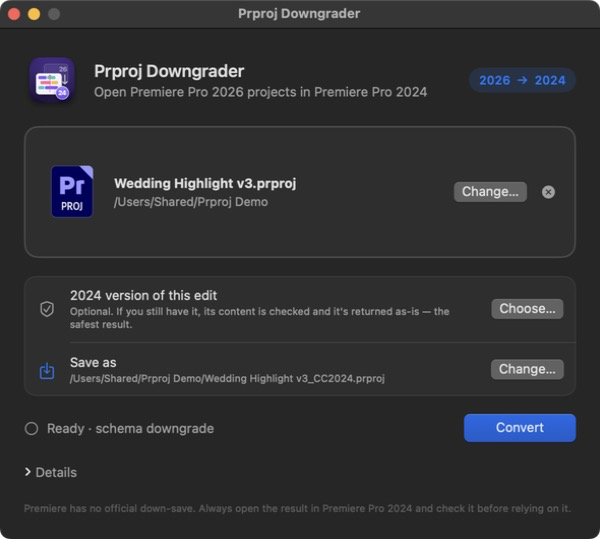
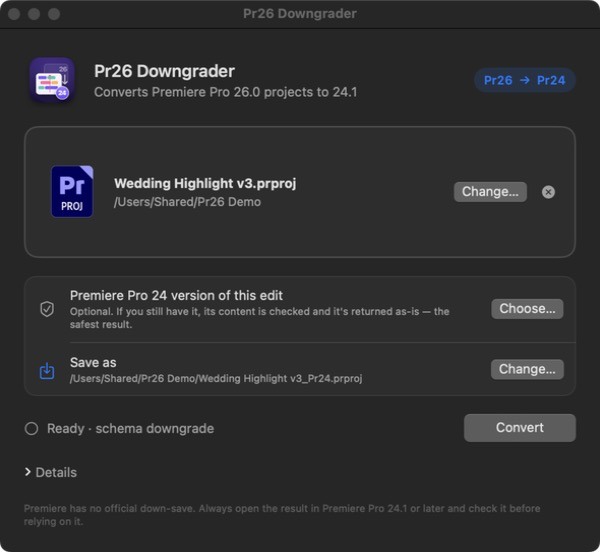
Rename to Pr26 Downgrader; add DMG release and Intel notes
- App, bundle ID, window, release files and repo links now use
  "Pr26 Downgrader"; output files default to <name>_Pr24.prproj.
- README states the exact versions: Premiere Pro 26.0.x (project version 45)
  to 24.1.x (project version 42), opening in 24.1 and later.
- Release builds a drag-to-Applications DMG alongside the ZIP, plus
  SHA256SUMS.txt.
- README: Intel Mac notes and per-macOS-version first-launch steps
  (Open Anyway on macOS 15+).

diff --git a/app/Pr26Downgrader.swift b/app/Pr26Downgrader.swift
@@ -3,19 +3,19 @@ import AppKit
 import UniformTypeIdentifiers
 
 @main
-struct PrprojDowngraderApp: App {
+struct Pr26DowngraderApp: App {
     @NSApplicationDelegateAdaptor(AppDelegate.self) private var delegate
     @StateObject private var model = ConverterModel.shared
 
     var body: some Scene {
-        Window("Prproj Downgrader", id: "main") {
+        Window("Pr26 Downgrader", id: "main") {
             ContentView()
                 .environmentObject(model)
         }
         .windowResizability(.contentSize)
         .commands {
             CommandGroup(replacing: .newItem) {
-                Button("Open 2026 Project…") { model.chooseInput() }
+                Button("Open Pr26 Project…") { model.chooseInput() }
                     .keyboardShortcut("o")
             }
         }
@@ -122,7 +122,7 @@ final class ConverterModel: ObservableObject {
 
     func setReference(_ url: URL?) {
         if let url, url == inputURL {
-            notice = "The 2024 version must be a different file from the 2026 project."
+            notice = "The Pr24 version must be a different file from the Pr26 project."
             return
         }
         referenceURL = url
@@ -138,7 +138,7 @@ final class ConverterModel: ObservableObject {
 
     static func defaultOutput(for input: URL) -> URL {
         let base = input.deletingPathExtension().lastPathComponent
-        return input.deletingLastPathComponent().appendingPathComponent(base + "_CC2024.prproj")
+        return input.deletingLastPathComponent().appendingPathComponent(base + "_Pr24.prproj")
     }
 
     private static var projectType: UTType {
@@ -147,7 +147,7 @@ final class ConverterModel: ObservableObject {
 
     func chooseInput() {
         let panel = NSOpenPanel()
-        panel.message = "Choose a Premiere Pro 2026 project"
+        panel.message = "Choose a Premiere Pro 26 project"
         panel.allowedContentTypes = [Self.projectType]
         panel.begin { response in
             guard response == .OK, let url = panel.url else { return }
@@ -157,7 +157,7 @@ final class ConverterModel: ObservableObject {
 
     func chooseReference() {
         let panel = NSOpenPanel()
-        panel.message = "Choose the Premiere Pro 2024 version of the same edit"
+        panel.message = "Choose the Premiere Pro 24 version of the same edit"
         panel.allowedContentTypes = [Self.projectType]
         if let dir = inputURL?.deletingLastPathComponent() { panel.directoryURL = dir }
         panel.begin { response in
@@ -169,7 +169,7 @@ final class ConverterModel: ObservableObject {
     func chooseOutput() {
         let panel = NSSavePanel()
         panel.allowedContentTypes = [Self.projectType]
-        panel.nameFieldStringValue = outputURL?.lastPathComponent ?? "Project_CC2024.prproj"
+        panel.nameFieldStringValue = outputURL?.lastPathComponent ?? "Project_Pr24.prproj"
         panel.directoryURL = outputURL?.deletingLastPathComponent()
         panel.begin { response in
             guard response == .OK, let url = panel.url else { return }
@@ -276,7 +276,7 @@ final class ConverterModel: ObservableObject {
     private static func failureMessage(status: Int32, log: String) -> String {
         switch status {
         case 3:
-            return "The 2024 project doesn't match this edit, so it wasn't used. Remove it to run a schema downgrade instead."
+            return "The Pr24 project doesn't match this edit, so it wasn't used. Remove it to run a schema downgrade instead."
         case 4:
             return "The converted file didn't pass verification and shouldn't be used."
         default:
@@ -289,11 +289,11 @@ final class ConverterModel: ObservableObject {
     private static func summarize(_ report: URL) -> Summary {
         guard let data = try? Data(contentsOf: report),
               let json = try? JSONSerialization.jsonObject(with: data) as? [String: Any] else {
-            return Summary(title: "Converted", detail: "Open it in Premiere Pro 2024 and check it before use.", warnings: [])
+            return Summary(title: "Converted", detail: "Open it in Premiere Pro 24.1 or later and check it before use.", warnings: [])
         }
         if json["mode"] as? String == "reference-transplant" {
-            return Summary(title: "Matched your 2024 project",
-                           detail: "The edit is identical, so the 2024 file was returned unchanged.",
+            return Summary(title: "Matched your Premiere Pro 24 project",
+                           detail: "The edit is identical, so the 24.1 file was returned unchanged.",
                            warnings: [])
         }
         let changes = json["changes"] as? [String: Any] ?? [:]
@@ -307,9 +307,9 @@ final class ConverterModel: ObservableObject {
         let detail = [
             "\(classes) versions reverted",
             "\(added) fields restored",
-            "\(removed) 2026-only fields removed",
+            "\(removed) Pr26-only fields removed",
         ].joined(separator: " · ")
-        return Summary(title: "Saved as a Premiere Pro 2024 project", detail: detail, warnings: warnings)
+        return Summary(title: "Saved as a Premiere Pro 24.1 project", detail: detail, warnings: warnings)
     }
 }
 
@@ -343,7 +343,7 @@ struct ContentView: View {
 
             DetailsSection()
 
-            Text("Premiere has no official down-save. Always open the result in Premiere Pro 2024 and check it before relying on it.")
+            Text("Premiere has no official down-save. Always open the result in Premiere Pro 24.1 or later and check it before relying on it.")
                 .font(.caption)
                 .foregroundStyle(.tertiary)
                 .fixedSize(horizontal: false, vertical: true)
@@ -364,24 +364,24 @@ struct HeaderView: View {
                 .resizable()
                 .frame(width: 56, height: 56)
             VStack(alignment: .leading, spacing: 2) {
-                Text("Prproj Downgrader")
+                Text("Pr26 Downgrader")
                     .font(.title2.weight(.semibold))
-                Text("Open Premiere Pro 2026 projects in Premiere Pro 2024")
+                Text("Converts Premiere Pro 26.0 projects to 24.1")
                     .foregroundStyle(.secondary)
             }
             Spacer()
             HStack(spacing: 6) {
-                Text("2026")
+                Text("Pr26")
                 Image(systemName: "arrow.right")
                     .font(.caption2.weight(.bold))
-                Text("2024")
+                Text("Pr24")
             }
             .font(.callout.weight(.semibold).monospacedDigit())
             .padding(.horizontal, 10)
             .padding(.vertical, 5)
             .background(Capsule().fill(Color.accentColor.opacity(0.15)))
             .foregroundStyle(Color.accentColor)
-            .help("Project schema v45 → v42")
+            .help("Premiere Pro 26.0 (project version 45) → 24.1 (project version 42)")
         }
     }
 }
@@ -419,7 +419,7 @@ struct DropZone: View {
             Image(systemName: "film.stack")
                 .font(.system(size: 30, weight: .light))
                 .foregroundStyle(isTargeted ? Color.accentColor : .secondary)
-            Text("Drop a Premiere Pro 2026 project here")
+            Text("Drop a Premiere Pro 26 project here")
                 .font(.headline)
             Text("or click to choose a .prproj file")
                 .font(.callout)
@@ -466,7 +466,7 @@ struct OptionsCard: View {
         VStack(spacing: 0) {
             OptionRow(
                 symbol: "checkmark.shield",
-                title: "2024 version of this edit",
+                title: "Premiere Pro 24 version of this edit",
                 subtitle: model.referenceURL.map { $0.lastPathComponent }
                     ?? "Optional. If you still have it, its content is checked and it's returned as-is — the safest result.",
                 isSet: model.referenceURL != nil

diff --git a/app/prproj_downgrade.py b/app/prproj_downgrade.py
@@ -644,7 +644,7 @@ def project_version(tree: ET.ElementTree) -> int | None:
 # ---------------------------------------------------------------------------
 
 def main(argv=None) -> int:
-    ap = argparse.ArgumentParser(description="Downgrade a Premiere Pro 2026 project to the 2024 schema.")
+    ap = argparse.ArgumentParser(description="Pr26 Downgrader: convert a Premiere Pro 26.0 project (project version 45) to Premiere Pro 24.1 (project version 42).")
     ap.add_argument("input", type=Path)
     ap.add_argument("output", type=Path)
     ap.add_argument("--reference", type=Path)

diff --git a/README.md b/README.md
@@ -1,29 +1,43 @@
 <p align="center">
-  <img src="docs/icon.png" width="128" alt="Prproj Downgrader icon">
+  <img src="docs/icon.png" width="128" alt="Pr26 Downgrader icon">
 </p>
 
-<h1 align="center">Prproj Downgrader</h1>
+<h1 align="center">Pr26 Downgrader</h1>
 
 <p align="center">
-  Open Premiere Pro <b>2026</b> projects in Premiere Pro <b>2024</b>.<br>
-  A macOS app and CLI that down-saves a <code>.prproj</code> from project schema v45 to v42.
+  Downgrades a <b>Premiere Pro 26.0</b> project to <b>Premiere Pro 24.1</b>.<br>
+  A macOS app and CLI that converts a <code>.prproj</code> from project version 45 to 42.
 </p>
 
 <p align="center">
-  <a href="https://github.com/xorica27/prproj-downgrader/actions/workflows/test.yml"><img src="https://github.com/xorica27/prproj-downgrader/actions/workflows/test.yml/badge.svg" alt="tests"></a>
+  <a href="https://github.com/xorica27/pr26-downgrader/actions/workflows/test.yml"><img src="https://github.com/xorica27/pr26-downgrader/actions/workflows/test.yml/badge.svg" alt="tests"></a>
   <img src="https://img.shields.io/badge/macOS-13%2B-blue" alt="macOS 13+">
   <img src="https://img.shields.io/badge/Apple%20Silicon%20%2B%20Intel-universal-blueviolet" alt="Universal">
   <a href="LICENSE"><img src="https://img.shields.io/badge/license-MIT-green" alt="MIT"></a>
 </p>
 
 <p align="center">
-  <img src="docs/screenshot.png" width="600" alt="Prproj Downgrader window">
+  <img src="docs/screenshot.png" width="600" alt="Pr26 Downgrader window">
 </p>
 
-Premiere has no built-in down-save. This tool rebuilds the 2024 schema from the
-2026 object graph. It is a best-effort transform: your original is never
-modified, and you should open the result in Premiere 2024 and check it before
-using it for real work.
+Premiere has no built-in down-save: a project saved in Pr26 won't open in Pr24.
+Pr26 Downgrader rebuilds the Pr24 project format from the Pr26 project. It is a
+best-effort transform: your original is never modified, and you should open the
+result in Premiere Pro 24.1 or later and check it before using it for real work.
+
+## Exact versions
+
+| | Premiere Pro | `.prproj` project version |
+|---|---|---|
+| **Input** | **26.0.x** (Premiere Pro 2026) | 45 |
+| **Output** | **24.1.x** (Premiere Pro 2024) | 42 |
+
+- The output opens in Premiere Pro **24.1 and later**. It will not open in 24.0
+  or earlier.
+- Input must be a Pr26 project (project version 45). Projects saved by Premiere
+  Pro 25.x have not been tested.
+- The conversion profile was derived from, and validated against, the same edit
+  saved by Premiere Pro 24.1 and 26.0.
 
 > Not affiliated with Adobe. Premiere Pro is a trademark of Adobe Inc.
 > This repository contains no project files, media, or personal data.
@@ -32,18 +46,34 @@ using it for real work.
 
 ## Download
 
-1. Grab `PrprojDowngrader-<version>.zip` from
-   [Releases](https://github.com/xorica27/prproj-downgrader/releases) and unzip it.
-2. Move **PrprojDowngrader.app** to Applications.
-3. First launch: the app is not notarised by Apple, so **right-click → Open**,
-   then **Open** again. (Or: System Settings → Privacy & Security → Open Anyway.)
+1. Grab `Pr26-Downgrader-<version>-universal.zip` or the `.dmg` from
+   [Releases](https://github.com/xorica27/pr26-downgrader/releases).
+2. Install it:
+   - **DMG:** open it and drag **Pr26 Downgrader** onto **Applications**.
+   - **ZIP:** unzip it and move **Pr26 Downgrader.app** to Applications.
+3. First launch: the app is not notarised by Apple, so macOS blocks it once.
+   - **macOS 15 Sequoia or newer:** open the app, dismiss the warning, then go to
+     **System Settings → Privacy & Security** and click **Open Anyway**.
+   - **macOS 13–14:** **right-click → Open**, then **Open** again.
+   If macOS says the app is damaged, clear the download quarantine:
+   ```bash
+   xattr -dr com.apple.quarantine "/Applications/Pr26 Downgrader.app"
+   ```
 
-Runs on macOS 13 or newer, on Apple Silicon and Intel. Python is built in;
-nothing else needs installing.
+Runs on **macOS 13 Ventura or newer**, on Apple Silicon and Intel. Python is
+built in; nothing else needs installing.
+
+### Intel Mac notes
+
+- Check **Apple menu → About This Mac**: the processor must be Intel and macOS must be 13
+  (Ventura) or newer. The same universal download runs natively — no Rosetta and
+  no separate Python install.
+- The first-launch warning is Gatekeeper blocking an unnotarised app, not an
+  architecture problem. Allow it once as described in step 3.
 
 **Use it:** drop a `.prproj` on the window (or on the Dock icon, or use
 Finder → Open With), press **Convert**, then **Show in Finder**. The result is
-saved next to the original as `<name>_CC2024.prproj`.
+saved next to the original as `<name>_Pr24.prproj`.
 
 ---
 
@@ -51,10 +81,10 @@ saved next to the original as `<name>_CC2024.prproj`.
 
 | Mode | When to use | What you get |
 |---|---|---|
-| **Reference transplant** (safest) | You still have a Premiere 2024 `.prproj` of the same edit | The 2024-native file, byte-for-byte. The tool first verifies sequences, clip IDs/names, edit points, durations and media paths match. |
-| **Schema downgrade** | You only have the 2026 project | A rebuilt v42 project. Structurally validated, but always test it in Premiere 2024. |
+| **Reference transplant** (safest) | You still have a Pr24 `.prproj` of the same edit | The Pr24-native file, byte-for-byte. The tool first verifies sequences, clip IDs/names, edit points, durations and media paths match. |
+| **Schema downgrade** | You only have the Pr26 project | A rebuilt version-42 project. Structurally validated, but always test it in Premiere Pro 24.1+. |
 
-If a 2024 reference is supplied, the app uses it automatically and refuses if
+If a Pr24 reference is supplied, the app uses it automatically and refuses if
 the editorial content differs.
 
 ---
@@ -65,9 +95,9 @@ Requirements: macOS 13+, Xcode command-line tools (`swiftc`, `lipo`), Python 3.9
 for the tests and CLI.
 
 ```bash
-make app          # universal app/PrprojDowngrader.app
-open app/PrprojDowngrader.app
-make release      # -> dist/PrprojDowngrader-<version>.zip
+make app          # universal app/Pr26 Downgrader.app
+open "app/Pr26 Downgrader.app"
+make release      # -> dist/Pr26-Downgrader-<version>-universal.zip
 ```
 
 `make app` downloads a pinned, SHA-256-verified standalone CPython 3.12 for
@@ -88,7 +118,7 @@ python3 app/prproj_downgrade.py INPUT.prproj OUTPUT.prproj [options]
 Requires Python 3.9+ (standard library only). Options:
 
 ```
---reference PATH   2024 .prproj of the same edit (content-matched transplant)
+--reference PATH   Pr24 .prproj of the same edit (content-matched transplant)
 --schema PATH      schema profile (default: schema42.json next to the script)
 --report PATH      write a JSON conversion report
 --no-pretty        skip XML indentation (smaller/faster output)
@@ -102,7 +132,7 @@ Examples:
 ```bash
 # safest path
 python3 app/prproj_downgrade.py INPUT.prproj OUTPUT.prproj \
-    --reference REFERENCE_2024.prproj --report report.json
+    --reference REFERENCE_Pr24.prproj --report report.json
 
 # schema conversion only
 python3 app/prproj_downgrade.py INPUT.prproj OUTPUT.prproj \
@@ -125,7 +155,7 @@ Derived by comparing the same project saved by Premiere **24.1.x** (v42) and
   `ClipLoggingInfo` 10→8, track items, and every effect-parameter class 10→9.
 - Inner element versions: `Track` 4→3, `TrackItem` 4→3, `AudioTrack` 12→11,
   `Component` 7→6.
-- Restores fields 2026 stopped writing:
+- Restores fields Pr26 stopped writing:
   - track `IsLocked`, `IsMuted`, `IsSyncLocked`
   - audio track `ChannelType`, `FrameRate`, `AutomationMode`, `SubType`,
     `Assign`, `Solo`, `MutedBySolo`, and `RecordChannel`
@@ -133,10 +163,10 @@ Derived by comparing the same project saved by Premiere **24.1.x** (v42) and
   - parameter `IsTimeVarying`, `ParameterControlType`, boolean bounds
   - `WorkingColorSpace` and `WorkingColorSpaceConfiguration`
   - project audio/video default settings
-- Removes 2026-only data: `ColorAwareEffectsEnabled`, `OriginalColorSpace`,
+- Removes Pr26-only data: `ColorAwareEffectsEnabled`, `OriginalColorSpace`,
   `OutputColorSpace` (converted), `ToneMapSettings`, `SideNav.*`,
   `WorkspaceDefinition`, `WorkspaceName`, `NextID`, track-level `ComponentOwner`,
-  and 2026-only UI properties.
+  and Pr26-only UI properties.
 - Reorders restored fields into the 24.1 serialization order.
 
 The schema profile in `app/schema42.json` contains only Adobe class/parameter
@@ -157,7 +187,7 @@ Validated against a real paired project saved by Premiere 24.1 (v42) and 26.0
   preview-cache and panel-state fields only.
 
 Editorial content is preserved. The output is not byte-identical to a 24.1 save:
-it keeps the 2026 project's object IDs and some UI state.
+it keeps the Pr26 project's object IDs and some UI state.
 
 Run the tests with:
 
@@ -173,17 +203,17 @@ No real project data is included.
 
 ## Limitations
 
-- **Test in Premiere 2024 before relying on the result.** The schema profile is
+- **Test in Premiere Pro 24.1+ before relying on the result.** The schema profile is
   derived from a real 24.1 file, but Premiere's parser is the final judge.
-- Premiere 2024 must be **24.1 or newer** (the schema v42 writer).
+- Premiere Pro 24 must be **24.1 or newer** (the first release that writes project version 42).
 - Preview-cache objects (`AudioPreviewItem`, `PreviewItem`) are not recreated;
   Premiere regenerates previews.
-- 2026-only effects or parameters not covered by the schema profile fall back to
+- Pr26-only effects or parameters not covered by the schema profile fall back to
   generic defaults and are listed in the report's `warnings`.
 - Audio frame rate is inferred from the project's own audio streams. Video
   project-default settings fall back to the 24.1 defaults (720×480, 29.97) when
   the project no longer stores them.
-- The output keeps the 2026 project's object IDs and some harmless UI state.
+- The output keeps the Pr26 project's object IDs and some harmless UI state.
 - Undo history and preview caches are not migrated.
 
 ---
@@ -193,8 +223,8 @@ No real project data is included.
 ```
 app/
   prproj_downgrade.py       # Python engine + CLI
-  PrprojDowngrader.swift    # SwiftUI macOS app
-  build_app.sh              # builds the universal PrprojDowngrader.app
+  Pr26Downgrader.swift      # SwiftUI macOS app
+  build_app.sh              # builds the universal Pr26 Downgrader.app
   schema42.json             # 24.1 field order + parameter-type profile
   AppIcon.icns              # app icon
 scripts/

diff --git a/CHANGELOG.md b/CHANGELOG.md
@@ -4,10 +4,11 @@
 
 First public release.
 
-- Down-saves Premiere Pro 2026 projects (schema v45) to the Premiere Pro 2024
-  layout (schema v42), or returns a matching 2024 project unchanged
+- Downgrades Premiere Pro 26.0 projects (project version 45) to Premiere Pro
+  24.1 (project version 42), or returns a matching Pr24 project unchanged
   (reference transplant).
 - macOS app for Apple Silicon and Intel with its own Python runtime, so
   nothing else needs installing.
 - Drag and drop, Finder "Open With", and a summary of what was changed.
 - Command-line tool with a JSON report and clear exit codes.
+- Downloads as a drag-to-Applications DMG or a ZIP.
